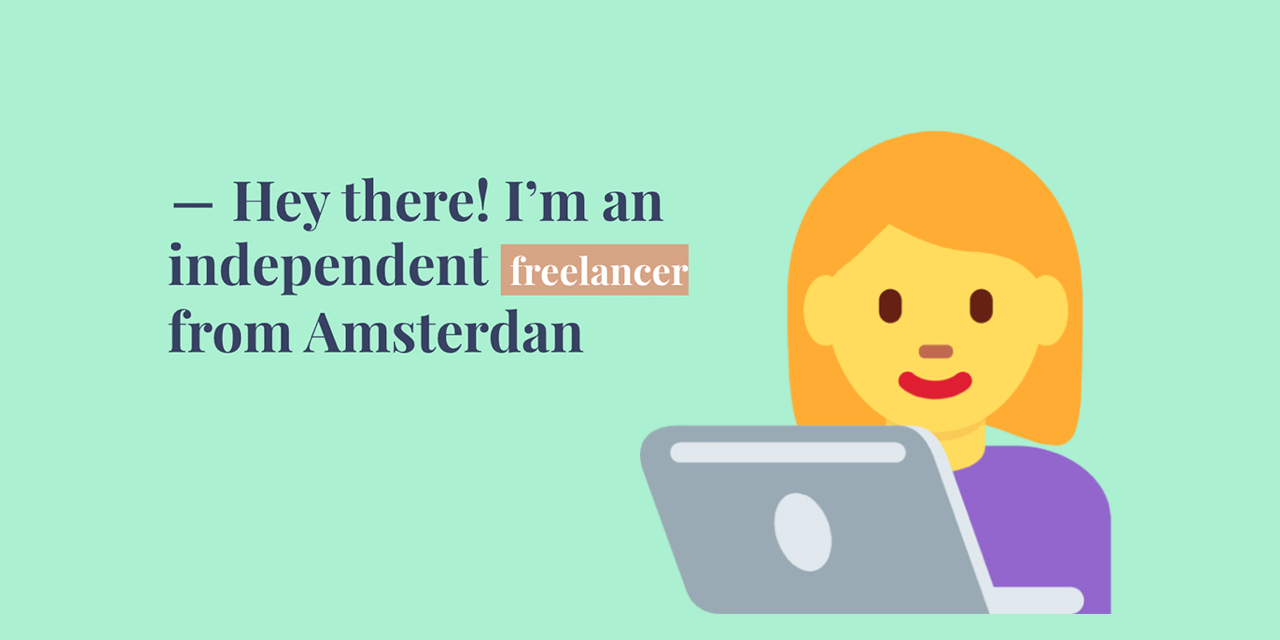
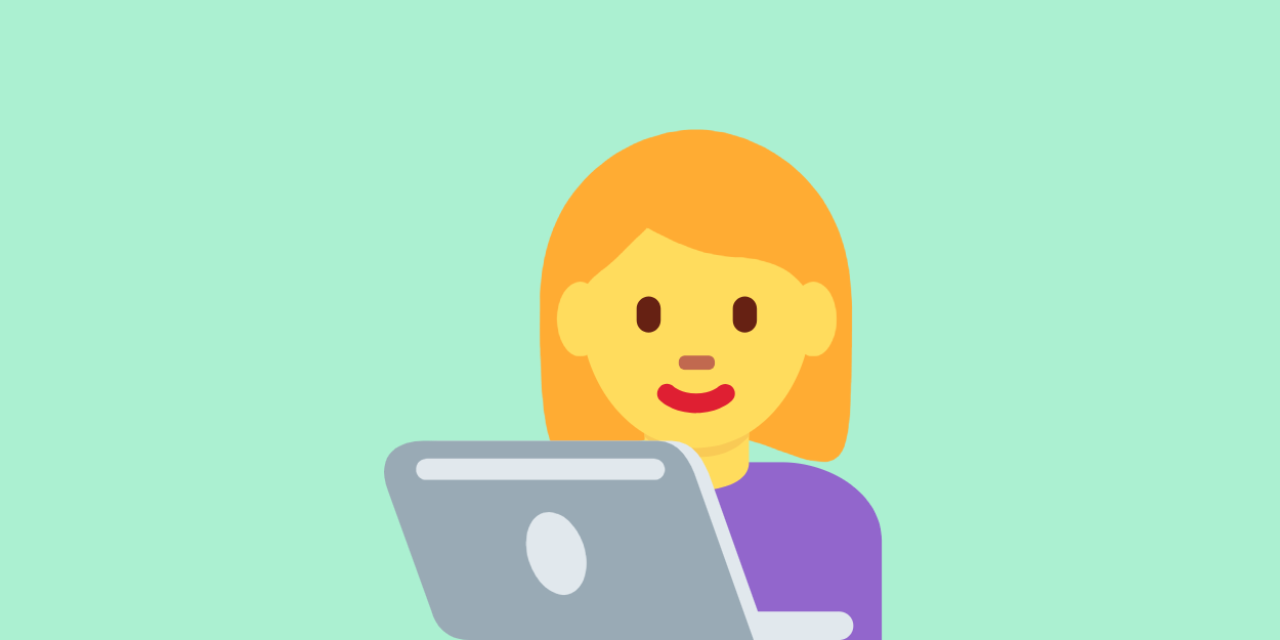
:tada: Added og image png

diff --git a/src/components/Seo.tsx b/src/components/Seo.tsx
@@ -57,7 +57,7 @@ const SEO: React.FC<SeoProps> = ({ description, lang = 'nl', meta, title }) => {
         },
         {
           property: `og:image`,
-          content: `${withPrefix('/')}img/og-image.jpg`,
+          content: `${withPrefix('/')}img/og-image.png`,
         },
         {
           name: `twitter:card`,
